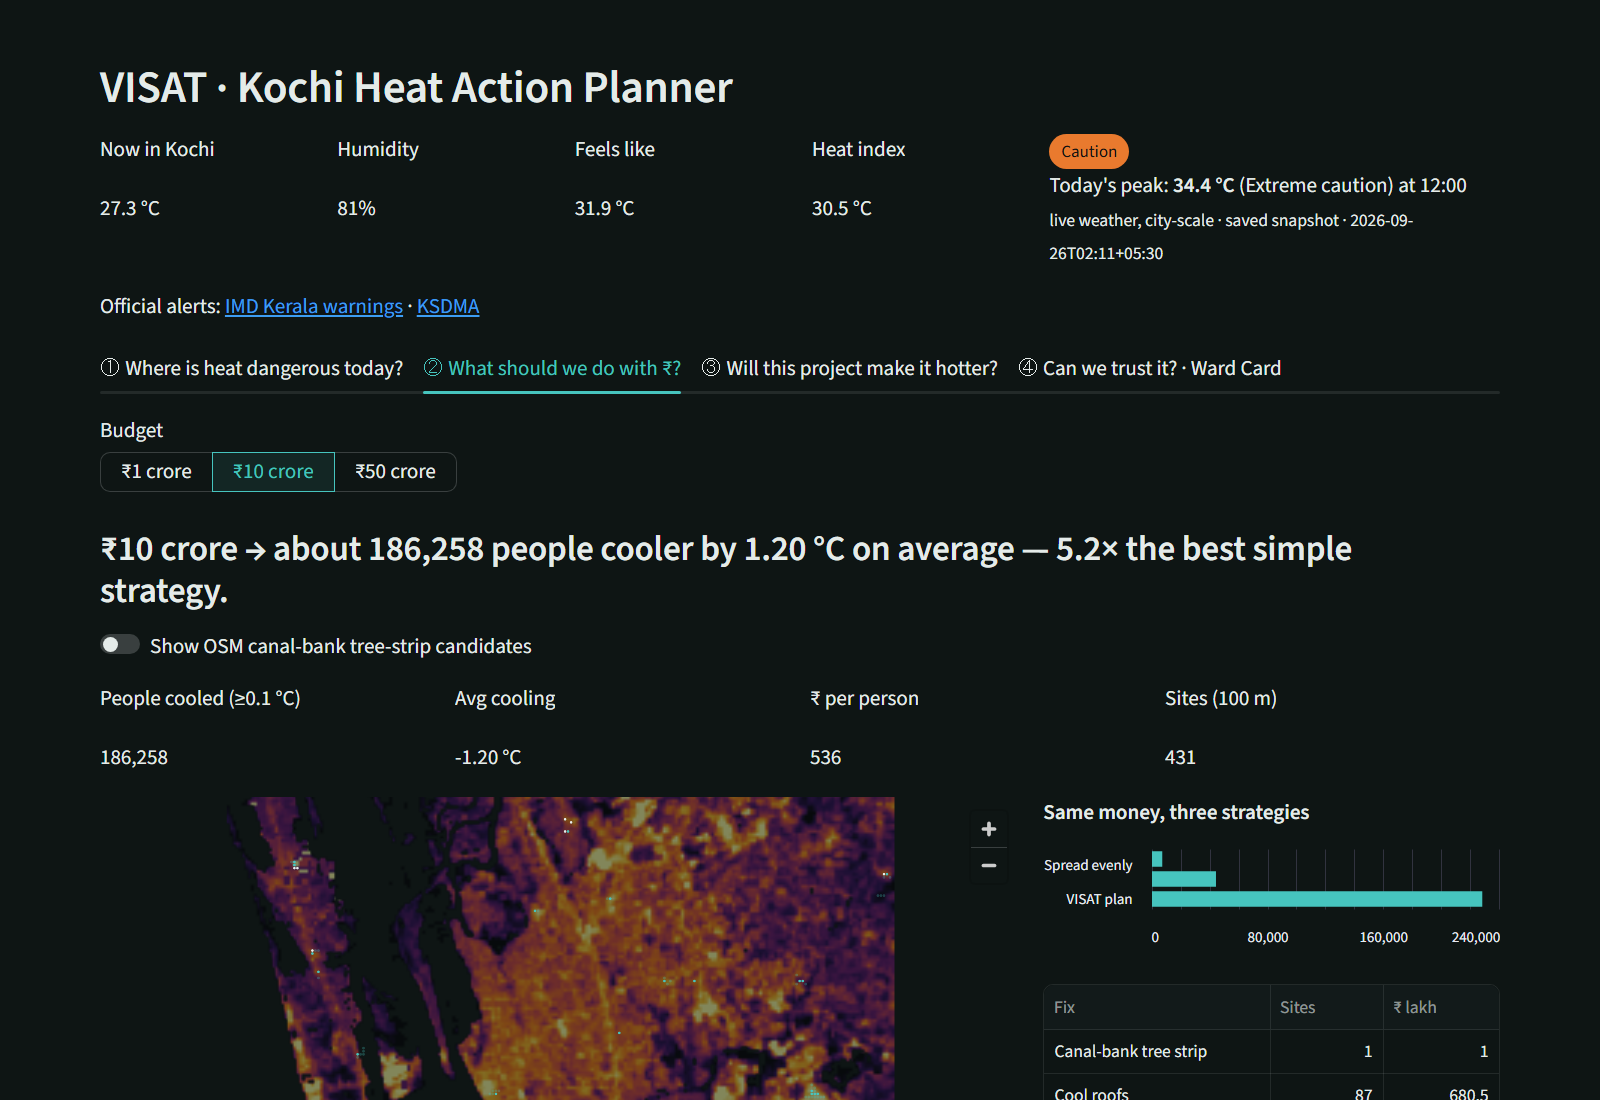
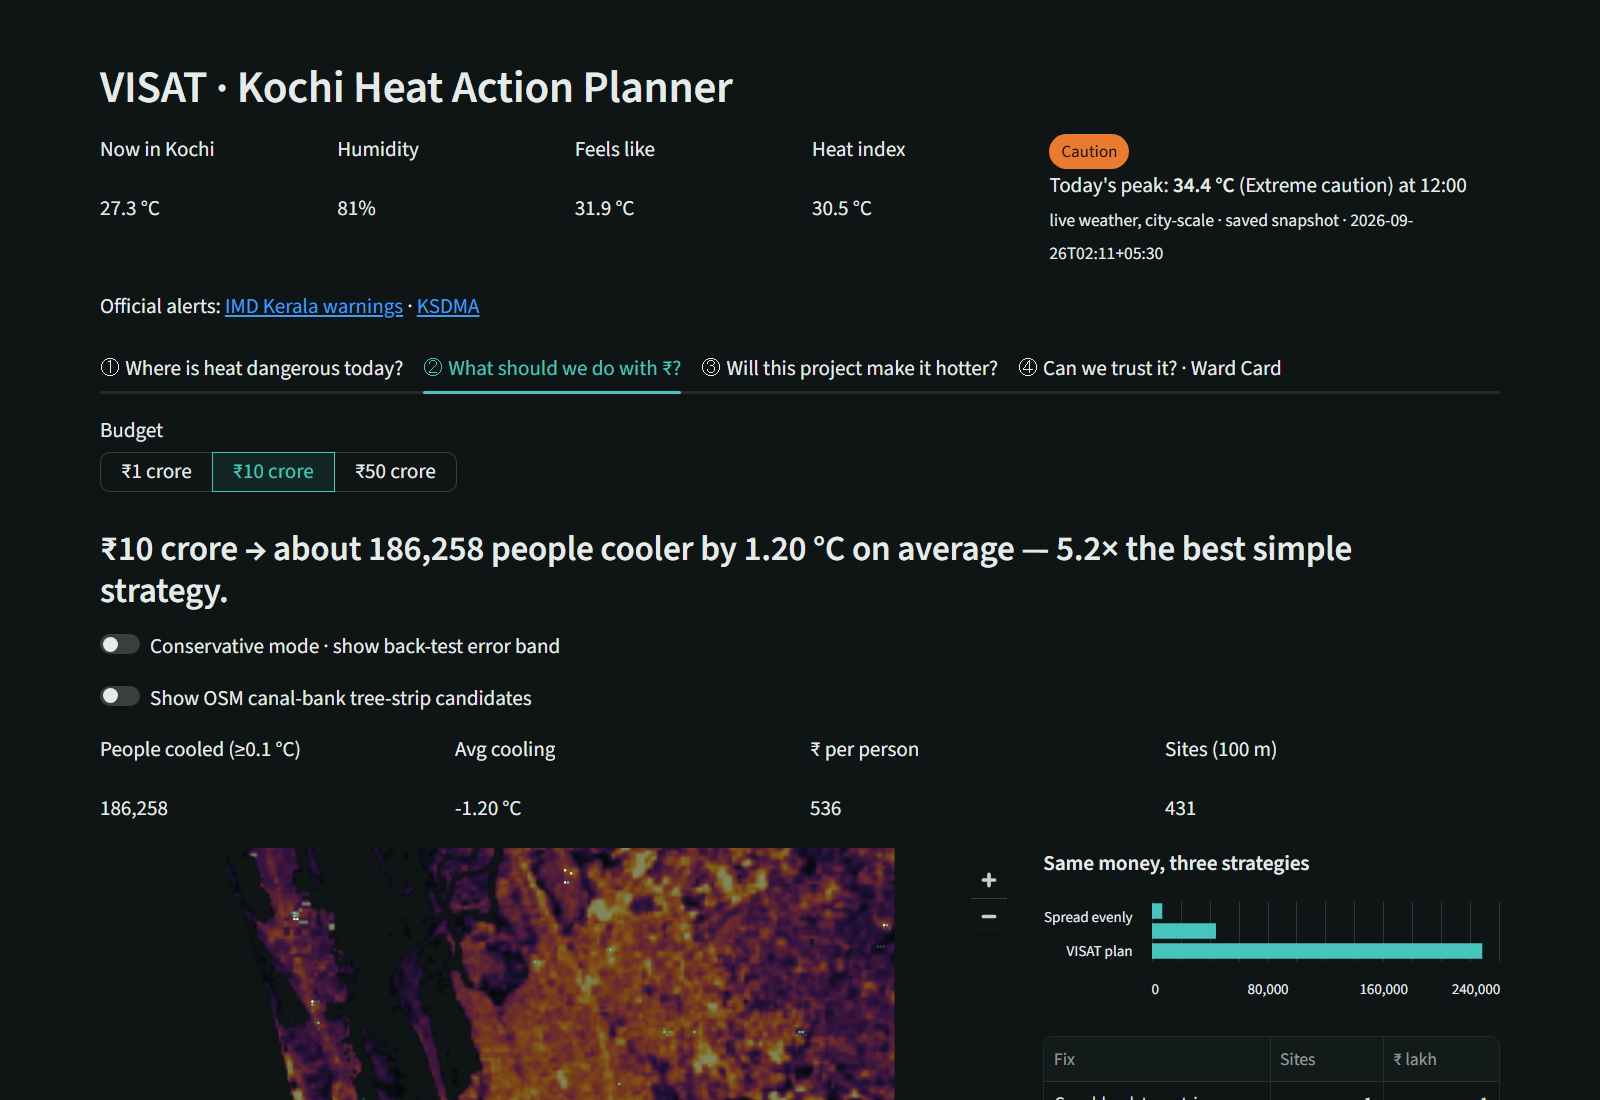
Complete remaining web plan and ledger features

diff --git a/app/streamlit_app.py b/app/streamlit_app.py
@@ -9,6 +9,7 @@ import altair as alt
 import pandas as pd
 import pydeck as pdk
 import streamlit as st
+import streamlit.components.v1 as components
 
 sys.path.insert(0, str(Path(__file__).resolve().parents[1] / "src"))
 from visat import config, exposure, live, news, report
@@ -28,14 +29,6 @@ st.markdown(
     [data-testid="stAppViewContainer"] p, [data-testid="stAppViewContainer"] li,
     [data-testid="stAppViewContainer"] label {font-size:1.05rem;}
     [data-baseweb="tab"] {font-size:1.05rem;}
-    .heat-ledger {padding:16px 18px;border:1px solid #36504d;border-radius:12px;
-                  background:#162020;margin:12px 0;}
-    .heat-ledger-row {display:flex;justify-content:space-between;gap:12px;font-size:20px;
-                      margin:6px 0;}
-    .heat-ledger-track {height:10px;background:#29403d;border-radius:10px;overflow:hidden;}
-    .heat-ledger-fill {height:100%;width:var(--ledger-width);background:var(--ledger-color);
-                       animation:ledger-fill .8s ease-out both;}
-    @keyframes ledger-fill {from {width:0;} to {width:var(--ledger-width);}}
     </style>""",
     unsafe_allow_html=True,
 )
@@ -138,7 +131,7 @@ def deck(layers, tooltip=None):
 
 
 def heat_ledger(result):
-    """Show the actual change, including any heat still left after the offset package."""
+    """Animate the net number while preserving the actual saved before/after values."""
     before = float(result["before"]["mean_dt_c"])
     after = float(result["after"]["mean_dt_c"])
     removed = before - after
@@ -149,14 +142,38 @@ def heat_ledger(result):
         ("Net change", f"{after:+.2f} °C", abs(after),
          "#ff7a3d" if after > 0.005 else "#46c4be"),
     ]
-    markup = "<div class='heat-ledger'>"
-    for label, value, amount, color in rows:
+    markup = """<style>
+    body {margin:0;background:#162020;color:#e4ebe9;font-family:Arial,sans-serif;}
+    .heat-ledger {padding:12px 16px;border:1px solid #36504d;border-radius:12px;}
+    .heat-ledger-row {display:flex;justify-content:space-between;gap:12px;
+                      font-size:20px;margin:5px 0;}
+    .heat-ledger-track {height:9px;background:#29403d;border-radius:10px;overflow:hidden;}
+    .heat-ledger-fill {height:100%;width:var(--ledger-width);background:var(--ledger-color);
+                       animation:ledger-fill .9s ease-out both;}
+    @keyframes ledger-fill {from {width:0;} to {width:var(--ledger-width);}}
+    </style><div class='heat-ledger'>"""
+    for i, (label, value, amount, color) in enumerate(rows):
         width = min(100, max(0, amount / scale * 100))
+        number_id = " id='net-number'" if i == 2 else ""
         markup += (f"<div class='heat-ledger-row'><span>{label}</span>"
-                   f"<strong style='color:{color}'>{value}</strong></div>"
+                   f"<strong{number_id} style='color:{color}'>{value}</strong></div>"
                    f"<div class='heat-ledger-track'><div class='heat-ledger-fill' "
                    f"style='--ledger-width:{width:.1f}%;--ledger-color:{color}'></div></div>")
-    return markup + "</div>"
+    markup += f"""</div><script>
+    const start = {before:.4f}, end = {after:.4f}, duration = 900;
+    const output = document.getElementById('net-number');
+    const format = value => `${{value >= 0 ? '+' : ''}}${{value.toFixed(2)}} °C`;
+    let began;
+    function tick(now) {{
+      if (began === undefined) began = now;
+      const p = Math.min(1, (now - began) / duration);
+      const eased = 1 - Math.pow(1 - p, 3);
+      output.textContent = format(start + (end - start) * eased);
+      if (p < 1) requestAnimationFrame(tick);
+    }}
+    requestAnimationFrame(tick);
+    </script>"""
+    return markup
 
 
 # ------------------------------------------------------------------ ① Today
@@ -219,7 +236,16 @@ with plan_tab:
     st.markdown(f"### {budget} → about **{ours['people_cooled']:,.0f} people** cooler by "
                 f"**{abs(ours['mean_dt_cooled']):.2f} °C** on average — **{gain:.1f}×** the best simple "
                 f"strategy.")
+    conservative = st.toggle("Conservative mode · show back-test error band", key="conservative")
     show_canal_banks = st.toggle("Show OSM canal-bank tree-strip candidates", key="canal_overlay")
+    backtest_mae = float(M["backtest"]["mae_c"])
+    if conservative:
+        lo = ours["mean_dt_cooled"] - backtest_mae
+        hi = ours["mean_dt_cooled"] + backtest_mae
+        st.info(f"Mean surface ΔT: {ours['mean_dt_cooled']:+.2f} °C, with an empirical "
+                f"back-test error band of {lo:+.2f} to {hi:+.2f} °C "
+                f"(±{backtest_mae:.2f} °C MAE). This is not a confidence interval or a "
+                "guaranteed cooling range.")
     k1, k2, k3, k4 = st.columns(4)
     k1.metric("People cooled (≥0.1 °C)", f"{ours['people_cooled']:,.0f}")
     k2.metric("Avg cooling", f"{ours['mean_dt_cooled']:.2f} °C")
@@ -268,6 +294,28 @@ with plan_tab:
                    "joint re-prediction.")
         st.dataframe(pd.DataFrame(M["validity_matrix"]), hide_index=True)
         st.caption(config.CANAL_CREDIT_NOTE)
+    with st.expander("Site-by-site plan · fix, ward, people, surface °C and cost"):
+        locations = cells[["lat", "lon", "ward_id", "pop"]].copy()
+        locations[["lat", "lon"]] = locations[["lat", "lon"]].round(5)
+        site_table = picks.merge(locations, on=["lat", "lon"], how="left",
+                                 validate="many_to_one")
+        site_table["Ward / area"] = site_table["ward_id"].map(wards["ward"])
+        site_table["Ward / area"] = site_table["Ward / area"].fillna("Outside Kochi wards")
+        site_table["Surface ΔT (°C)"] = site_table["dt"].map(lambda x: f"{x:+.2f}")
+        if conservative:
+            site_table["Back-test band (°C)"] = site_table["dt"].map(
+                lambda x: f"{x - backtest_mae:+.2f} to {x + backtest_mae:+.2f}")
+        columns = ["Ward / area", "fix", "Surface ΔT (°C)"]
+        if conservative:
+            columns.append("Back-test band (°C)")
+        site_table["People at site"] = site_table["pop"].round(0)
+        site_table["₹ lakh"] = (site_table["cost"] / 1e5).round(2)
+        st.dataframe(site_table[columns + ["People at site", "₹ lakh", "lat", "lon"]]
+                     .rename(columns={"fix": "Fix", "lat": "Latitude", "lon": "Longitude"}),
+                     hide_index=True)
+        st.caption("Each row is one selected 100 m cell. People at site use GHSL 2020; the total plan "
+                   "also counts spillover. Per-site surface ΔT is the saved joint prediction. "
+                   "The empirical back-test MAE is not a statistical confidence interval.")
 
 # ------------------------------------------------------------------ ③ Check a Project
 with project_tab:
@@ -287,7 +335,7 @@ with project_tab:
             st.markdown(f"<div class='ledger hot'>+{R['before']['mean_dt_c']:.1f} °C</div>"
                         f"<b>{R['before']['people']:,} people</b> within ~500 m", unsafe_allow_html=True)
         else:
-            st.markdown(heat_ledger(R), unsafe_allow_html=True)
+            components.html(heat_ledger(R), height=160, scrolling=False)
             st.markdown(f"**Offset package: ₹{R['offset_cost_rs'] / 1e5:,.1f} lakh**")
             if R["after"]["mean_dt_c"] > 0.005:
                 st.warning("Heat remains after these offsets. This proposal does not pass the "
@@ -399,6 +447,12 @@ with proof_tab:
         st.dataframe(pd.DataFrame([
             {"Layer": "Satellite heat (Landsat 8/9)", "Status": "frozen",
              "Detail": f"{M['n_scenes']} scenes, Jan–Apr {config.SCENE_YEARS[0]}–{config.SCENE_YEARS[1]}"},
+            {"Layer": "ECOSTRESS afternoon check", "Status": "available" if M.get("ecostress") else "pending",
+             "Detail": "Requires AppEEARS scenes" if not M.get("ecostress") else "see metric above"},
+            {"Layer": "CPCB station check", "Status": "available" if M.get("cpcb") else "pending",
+             "Detail": "Requires station CSVs" if not M.get("cpcb") else "see metric above"},
+            {"Layer": "Matched back-test", "Status": "available" if matched else "pending",
+             "Detail": "Requires raw back-test export" if not matched else "see metric above"},
             {"Layer": "Weather per scene (ERA5-Land)", "Status": "frozen", "Detail": "at overpass hour"},
             {"Layer": "Live weather (Open-Meteo)", "Status": LIVE.get("status"),
              "Detail": LIVE.get("fetched_at") or LIVE.get("time", "")},

diff --git a/tests/test_app.py b/tests/test_app.py
@@ -17,6 +17,8 @@ def test_app_runs_all_four_screens_without_errors():
     at.selectbox[2].set_value("Island North").run()
     assert not at.exception
     at.segmented_control(key="budget").set_value("₹50 crore").run()
+    at.toggle(key="conservative").set_value(True).run()
+    assert any("back-test error band" in info.value for info in at.info)
     at.toggle(key="neutral").set_value(True).run()
     assert not at.exception
     assert any("does not pass the heat-neutral screen" in warning.value

diff --git a/TASKS.md b/TASKS.md
@@ -108,7 +108,7 @@ uv run streamlit run app/streamlit_app.py # open http://localhost:8501
 | Public Reaction Preview (Tier 3, simulated personas, number guard) | `src/visat/reactions.py` | Extra |
 | Earth Engine export, OSM features, frozen loader | `gee_export.py`, `osm_features.py`, `frozen.py` | Inputs |
 | 4-screen Streamlit app, dark projector theme | `app/streamlit_app.py`, `.streamlit/config.toml` | UI |
-| 22 tests: budget, never-warms, eligibility, joint vs single, baselines, heat-neutral, fallbacks, Malayalam, number guard, app smoke | `tests/` | Demo safety |
+| 25 tests: budget, never-warms, eligibility, joint vs single, baselines, heat-neutral, fallbacks, Malayalam, number guard, app smoke | `tests/` | Demo safety |
 
 ---
 
@@ -149,14 +149,14 @@ uv run streamlit run app/streamlit_app.py # open http://localhost:8501
 
 ## M2 — Scenarios & Optimizer (ML)
 
-- [ ] **H+0** Read `scenarios.py` + `optimize.py`; run `uv run pytest -q`.
+- [x] **H+0** Read `scenarios.py` + `optimize.py`; the local test suite passes (25 tests).
 - [ ] **H+3.5** On real data, open the validity matrix (Plan tab → expander). Check each intervention has eligible
       cells and a sensible median °C. Tune in `config.INTERVENTIONS` (intensity, coverage) and eligibility rules
       in `scenarios.eligible` — **public land only**.
-- [ ] **H+4** Confirm our plan beats both baselines on real data at ₹1/10/50 Cr (test `test_plan_beats_naive_baselines`).
+- [x] **H+4** Confirmed the saved real-data plan beats both baselines at ₹1/10/50 Cr; `test_plan_beats_naive_baselines` passes.
 - [ ] **H+5** Check the 5–8 Heat-Neutral sites (`heat_neutral.select_sites`) are genuinely open plots on a map;
       adjust `config.SITE_ANCHORS` if one lands on a wetland or paddy (protected).
-- [ ] **T2** "Conservative mode": use the back-test error (±MAE) as the ΔT band on the Plan table.
+- [x] **T2** "Conservative mode": show the saved back-test ±MAE as an empirical ΔT band in the Plan summary and site table, explicitly not a confidence interval.
 - **Presents:** plan-vs-baselines + Heat-Neutral slide. **Q&A:** "where is the physics?", "why greedy?", "joint vs sum".
 
 ## M3 — App (Design)
@@ -177,7 +177,7 @@ uv run streamlit run app/streamlit_app.py # open http://localhost:8501
 - [x] **T3** Optional overlay of OSM canal/drain/ditch bank tree-strip candidate cells, labelled as
       unverified candidates with 0 °C canal credit.
 - [ ] **T3 follow-up** Named IURWTS canal alignments from OSM `waterway=canal` geometry.
-- [ ] **T3 follow-up** Numerical heat-ledger count-down animation.
+- [x] **T3 follow-up** Numerical heat-ledger count-down animation, from project heat added to the saved net change.
 - **Presents:** live demo (screens 1–4). **Q&A:** "walk me through one ward", "what if Wi-Fi fails?"
 
 ## M4 — Product & Pitch (Design)
